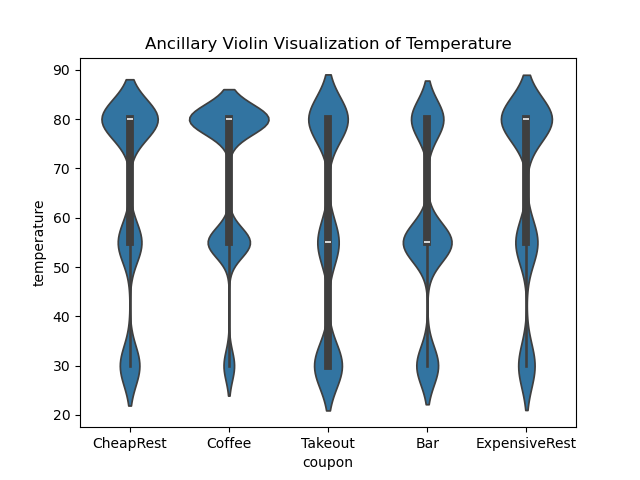
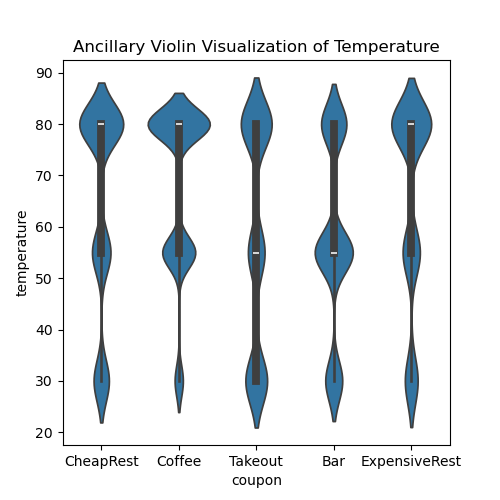
final

diff --git a/README.md b/README.md
@@ -1,0 +1,57 @@
+### Readme.md 06/26 v0.1
+
+**Technical Overview**
+
+The analysis of the coupon data is performed against various data points captured in the
+dataset. The data has be cleaned, formatted to accomplist a Visual appeal. Bar data,
+Cheap restaurant data has be updated for ease of display and visual inference.
+
+1. Y column has been renamed to accept_coupon
+
+2. Bar column has been renamed to barVisits
+
+3. Values of Bar, RestaurantLessThan20, CarryAway, Restaurant20to50, Coffee House has been renamed to the following -
+	a. 0
+	b. less than 1
+	c. 1 to 3
+	d. 4 to 8
+	e. greater than 8
+
+4. Corresponding Columns attributes have been renamed to the following
+	a. CheapRest
+	b. Coffee
+	c. Takeout
+	d. Bar
+	e. ExpensiveRest
+
+5. New DataFrame that drops null values for bar and restaurant has been created
+	a. bar_data
+	b. restaurant_data
+
+6. Seaborn Plot has been extensively use to visualize acceptance data for total observation, bar observation, cheaprestaurant data
+
+7. Violin and Bar plot has been used as ancillary plot for analysis
+
+8. Pandas Query, Macros, Data Manipulation techniques (such as column renames, new data frames from dictionary etc.)
+
+9. Subplot using FacetGrid to compare the acceptance rate for bi-variate and multi-variate data.
+
+10. Used Visualization for data filter for ancillary observation supporting the main observation
+
+11. The cheap restaurant data is used for independent analysis
+
+12. Subplots for Income group analysis and Pandas Query and Grouping was used extensively
+
+** Non-technical Conclusion **
+
+
+** Part 1 Bar coupon acceptance analysis **
+
+The comparison of acceptance rate of driver who goto bar more than once, gives us similar results. The acceptance proportion is higher when the bar visit of the drivers is more than three.
+Inferencing the data along with passanger indicates the likelyhood of acceptance is higher when the driver is alone or driving with a passanger such asfriend(s) are most likely to accept the coupon.
+The acceptance rate is higher in warmer weather and the coldest weather is when takeout coupons are offered.
+
+** Part 2 Cheap Restaurant acceptance analysis **
+
+Acceptance rate for drivers is higher who go to the cheap restaurant with or without passangers when the desitnation is not urgent place and income of the driver is less than 50k accept the coupon.
+Income higher than 50k has low acceptance rate in comparison.